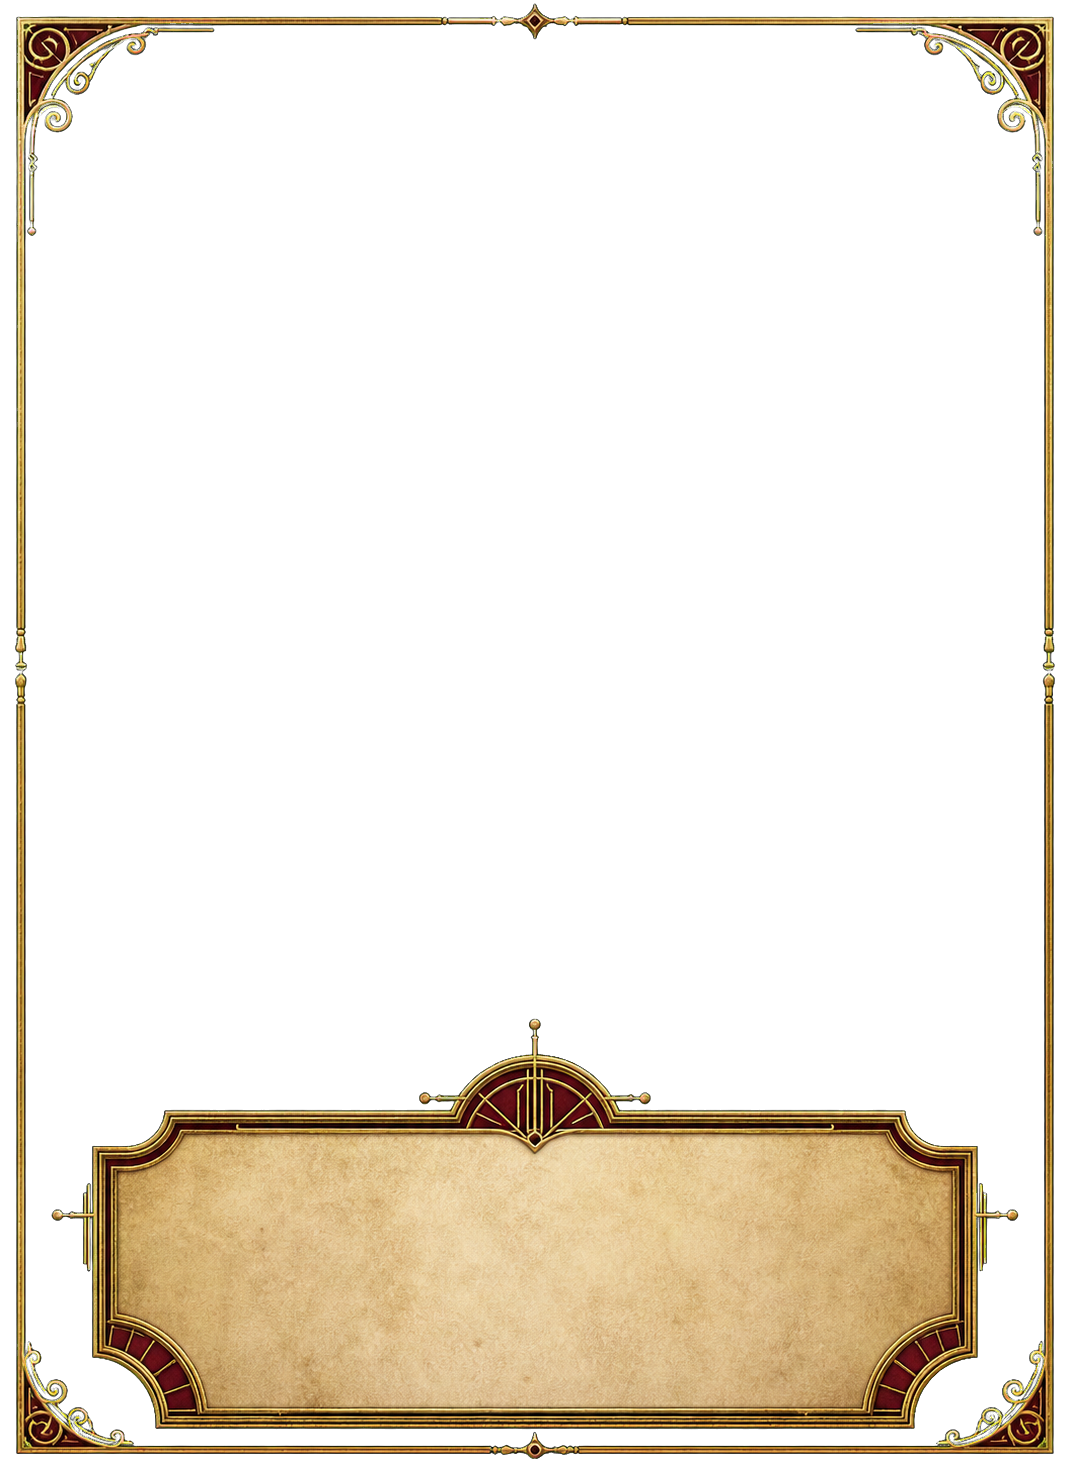
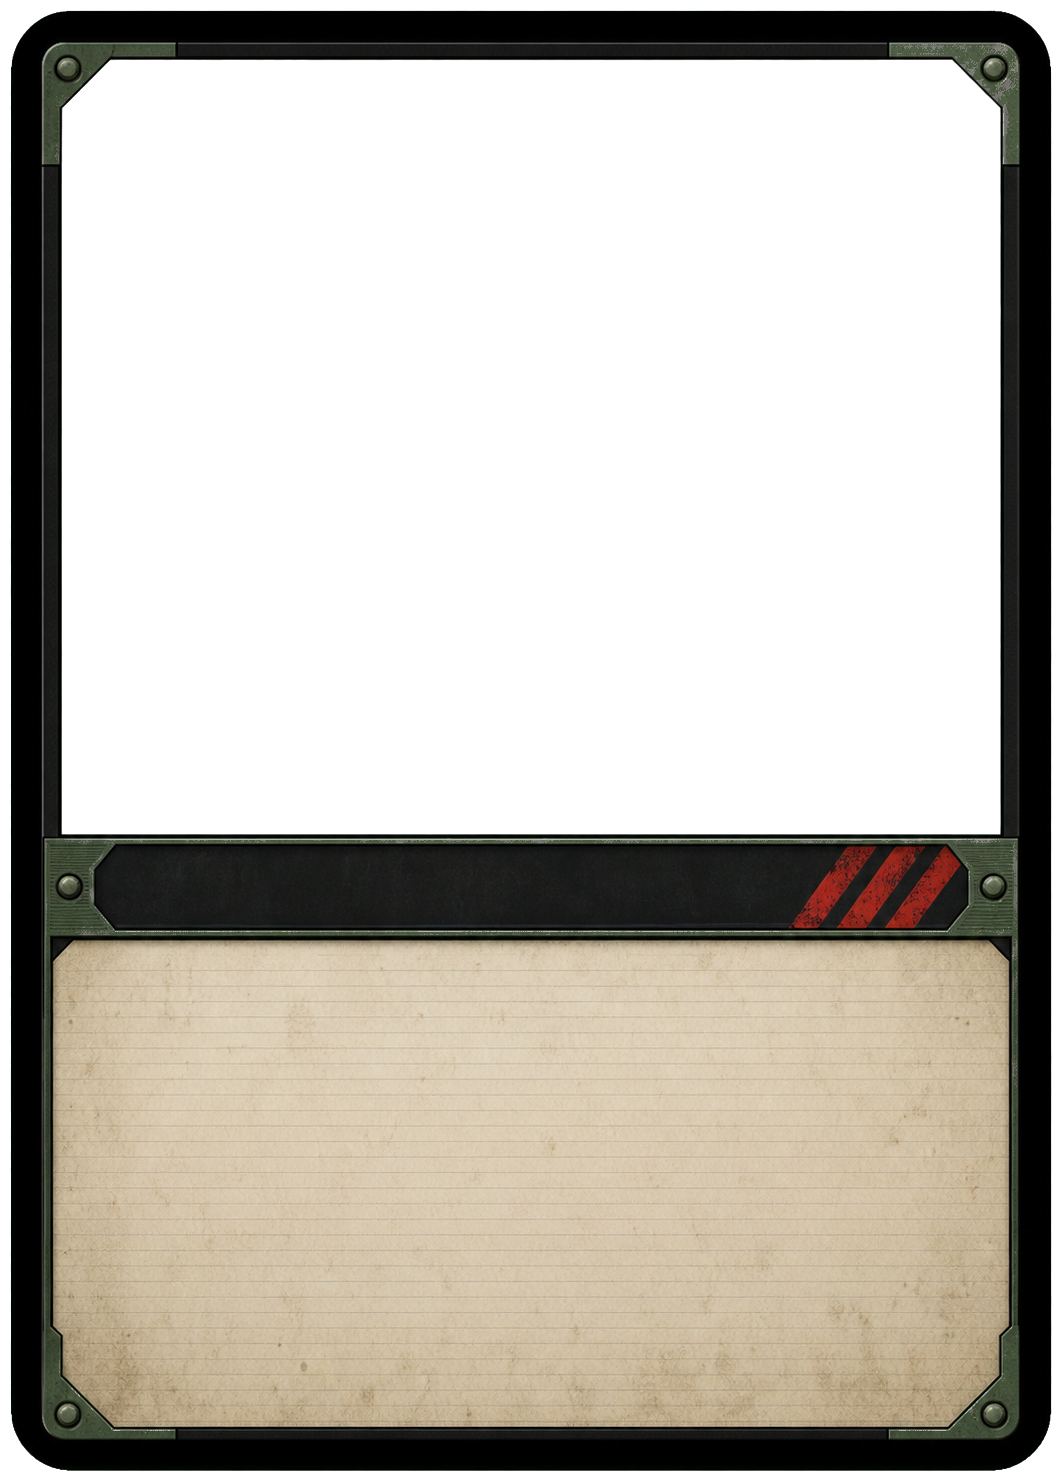
Updated card chrome

diff --git a/main.c b/main.c
@@ -24,7 +24,6 @@ typedef struct {
     TTF_Font *font_title;
     TTF_Font *font_title_sm;
     TTF_Font *font_body;
-    TTF_Font *font_body_italic;
     TTF_Font *font_small;
     TTF_Font *font_value;
     SDL_Texture *atlas;
@@ -61,16 +60,16 @@ static void compute_layout(Game *g) {
     g->win_w    = BASE_WINDOW_W;
     g->win_h    = BASE_WINDOW_H;
     g->card_w   = 160;
-    g->card_h   = 240;
+    g->card_h   = 224;
     g->card_gap = 12;
     g->margin   = 10;
     g->hand_y   = g->win_h - g->card_h - 34;
-    g->row_y    = 160;
+    g->row_y    = 150;
     g->title_bar_h = 32;
     g->img_margin  = 10;
     g->img_h       = 90;
     g->text_margin = 10;
-    g->badge_size  = 24;
+    g->badge_size  = 20;
     g->divider_gap = 4;
 }
 
@@ -90,17 +89,15 @@ static bool game_init(Game *g) {
 
     compute_layout(g);
 
-    g->font_title = TTF_OpenFont("fonts/Cinzel.ttf", 14);
+    g->font_title = TTF_OpenFont("fonts/CrimsonText-SemiBold.ttf", 14);
     if (!g->font_title) return false;
-    g->font_title_sm = TTF_OpenFont("fonts/Cinzel.ttf", 10);
+    g->font_title_sm = TTF_OpenFont("fonts/CrimsonText-SemiBold.ttf", 11);
     if (!g->font_title_sm) return false;
-    g->font_body = TTF_OpenFont("fonts/CrimsonText-Regular.ttf", 11);
+    g->font_body = TTF_OpenFont("fonts/CrimsonText-SemiBold.ttf", 11);
     if (!g->font_body) return false;
-    g->font_body_italic = TTF_OpenFont("fonts/CrimsonText-Italic.ttf", 11);
-    if (!g->font_body_italic) g->font_body_italic = g->font_body;
-    g->font_small = TTF_OpenFont("fonts/CrimsonText-Regular.ttf", 10);
+    g->font_small = TTF_OpenFont("fonts/CrimsonText-SemiBold.ttf", 10);
     if (!g->font_small) g->font_small = g->font_body;
-    g->font_value = TTF_OpenFont("fonts/Cinzel.ttf", 16);
+    g->font_value = TTF_OpenFont("fonts/CrimsonText-SemiBold.ttf", 16);
     if (!g->font_value) g->font_value = g->font_title;
 
     SDL_Surface *surf = IMG_Load("cards.png");
@@ -131,6 +128,7 @@ static bool game_init(Game *g) {
     g->card_back = SDL_CreateTextureFromSurface(g->renderer, surf);
     SDL_FreeSurface(surf);
     if (!g->card_back) return false;
+    SDL_SetTextureBlendMode(g->card_back, SDL_BLENDMODE_BLEND);
 
     g->hand_count = 0;
     g->row_count = 0;
@@ -146,7 +144,6 @@ static void game_cleanup(Game *g) {
     if (g->atlas) SDL_DestroyTexture(g->atlas);
     if (g->font_value && g->font_value != g->font_title) TTF_CloseFont(g->font_value);
     if (g->font_small && g->font_small != g->font_body) TTF_CloseFont(g->font_small);
-    if (g->font_body_italic && g->font_body_italic != g->font_body) TTF_CloseFont(g->font_body_italic);
     if (g->font_body) TTF_CloseFont(g->font_body);
     if (g->font_title_sm) TTF_CloseFont(g->font_title_sm);
     if (g->font_title) TTF_CloseFont(g->font_title);
@@ -205,65 +202,52 @@ static void draw_card(Game *g, int card_idx, int x, int y, bool face_up) {
     int cw = g->card_w, ch = g->card_h;
     SDL_Rect dst = {x, y, cw, ch};
 
-    SDL_Rect shadow = {x + 5, y + 7, cw, ch};
-    SDL_SetRenderDrawColor(r, 13, 10, 8, 150);
-    SDL_RenderFillRect(r, &shadow);
-
     if (!face_up) {
         SDL_RenderCopy(r, g->card_back, NULL, &dst);
         return;
     }
 
-    SDL_SetRenderDrawColor(r, 38, 25, 24, 255);
-    SDL_RenderFillRect(r, &dst);
-
     int col = card_idx % CARD_ATLAS_COLS;
     int row = card_idx / CARD_ATLAS_COLS;
-    SDL_Rect src = {col * g->cell_w, row * g->cell_h, g->cell_w, g->cell_h};
-
-    /* The atlas cells are square: render them 1:1, flush with the card edges. */
-    SDL_Rect img_dst = {x, y, cw, cw};
+    /* Crop the square atlas cell to the frame's wide illustration aperture. */
+    int crop_h = g->cell_w * 117 / 142;
+    int crop_y = (g->cell_h - crop_h) / 2;
+    SDL_Rect src = {col * g->cell_w, row * g->cell_h + crop_y,
+                    g->cell_w, crop_h};
+    SDL_Rect img_dst = {x + 9, y + 9, 142, 117};
     SDL_RenderCopy(r, g->atlas, &src, &img_dst);
-
-    SDL_Rect lower = {x, y + cw, cw, ch - cw};
-    SDL_SetRenderDrawColor(r, 218, 199, 157, 255);
-    SDL_RenderFillRect(r, &lower);
 
     /* All ornamental chrome comes from a PNG asset. */
     SDL_RenderCopy(r, g->card_front_chrome, NULL, &dst);
 
-    SDL_SetRenderDrawBlendMode(r, SDL_BLENDMODE_BLEND);
-    SDL_Rect title_bg = {x, y + cw - 31, cw, 31};
-    SDL_SetRenderDrawColor(r, 24, 13, 18, 205);
-    SDL_RenderFillRect(r, &title_bg);
-    SDL_SetRenderDrawBlendMode(r, SDL_BLENDMODE_NONE);
-
-    SDL_Color title_color = {245, 226, 174, 255};
+    /* The PNG supplies a dedicated, high-contrast title plaque below the art. */
+    SDL_Rect title_area = {x + 10, y + 127, cw - 20, 15};
+    SDL_Color title_color = {231, 231, 218, 255};
     const char *title = g_cards[card_idx].title;
-    int max_text_w = cw - 16;
-    TTF_Font *tf = g->font_title;
+    int max_text_w = cw - 28;
+    TTF_Font *tf = g->font_title_sm;
     SDL_Surface *ts = TTF_RenderText_Blended(tf, title, title_color);
     if (ts && ts->w > max_text_w) {
         SDL_FreeSurface(ts);
-        tf = g->font_title_sm;
+        tf = g->font_small;
         ts = TTF_RenderText_Blended(tf, title, title_color);
     }
     if (ts) {
         SDL_Texture *tt = SDL_CreateTextureFromSurface(r, ts);
         int tx = x + (cw - ts->w) / 2;
-        SDL_Rect tdst = {tx, title_bg.y + (title_bg.h - ts->h) / 2, ts->w, ts->h};
+        SDL_Rect tdst = {tx, title_area.y + (title_area.h - ts->h) / 2, ts->w, ts->h};
         SDL_RenderCopy(r, tt, NULL, &tdst);
         SDL_DestroyTexture(tt);
         SDL_FreeSurface(ts);
     }
 
-    int text_x = x + 13;
-    int text_y = y + cw + 25;
-    int text_w = cw - g->text_margin * 2;
-    int text_h = ch - cw - 34;
+    int text_x = x + 9;
+    int text_y = y + 145;
+    int text_w = cw - 18;
+    int text_h = 70;
 
-    SDL_Color body_color = {50, 40, 30, 255};
-    render_text_wordwrapped(r, g->font_body_italic, g_cards[card_idx].text,
+    SDL_Color body_color = {29, 31, 27, 255};
+    render_text_wordwrapped(r, g->font_small, g_cards[card_idx].text,
                            body_color, text_x, text_y, text_w, text_h);
 
     char valbuf[8];